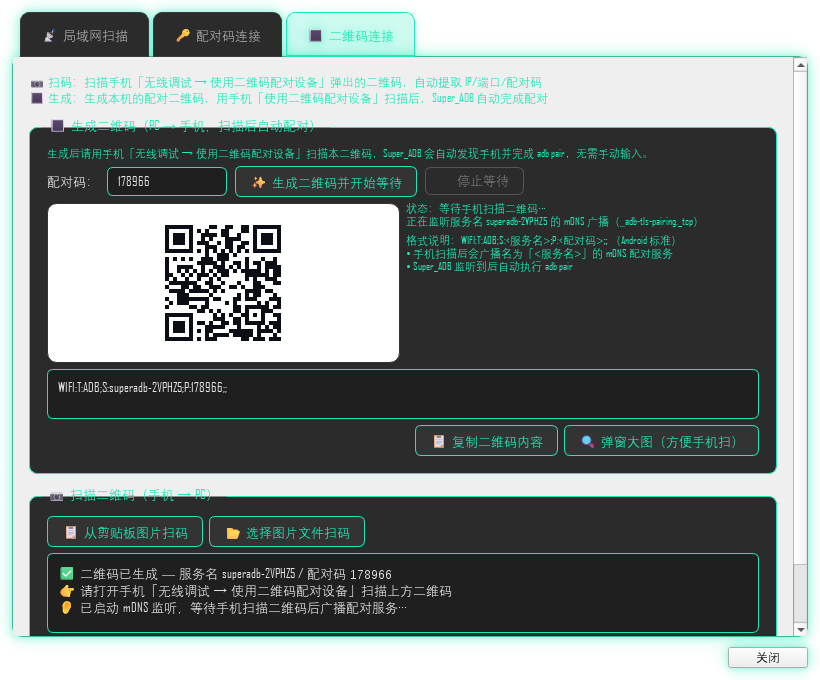
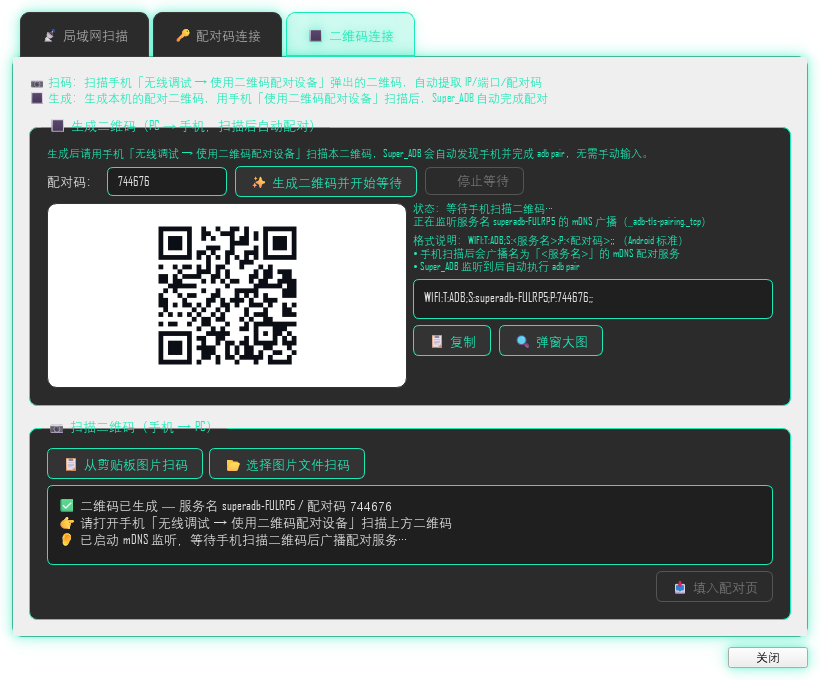
refactor(qr): payload 和按钮也挪到二维码右侧，进一步压缩生成区
- 把 payload 文本框、复制按钮、弹窗大图按钮从生成区底部移到二维码右侧信息列
- payload 文本框最大高度从 50 降到 40
- 按钮文字缩短为「复制」「弹窗大图」，用 tooltip 保留完整说明
- 同步更新 feature_intro 截图

Changed region(s): [[0.0305, 0.1853, 0.9756, 0.9574], [0.1524, 0.2471, 0.1829, 0.2779]]

diff --git a/Super_ADB_Main/dialogs/qr_connect_page.py b/Super_ADB_Main/dialogs/qr_connect_page.py
@@ -263,30 +263,34 @@ class QrConnectPage(QWidget):
         note.setWordWrap(True)
         note.setStyleSheet(f"color:{ACCENT}; font-size:11px;")
         info_col.addWidget(note)
+
+        # payload 原文 + 复制按钮，放到二维码右侧信息列里，继续省纵向空间
+        self.qr_payload_text = QTextEdit()
+        self.qr_payload_text.setReadOnly(True)
+        self.qr_payload_text.setMaximumHeight(40)
+        self.qr_payload_text.setPlaceholderText("生成的二维码原始文本…")
+        info_col.addWidget(self.qr_payload_text)
+
+        btn_row = QHBoxLayout()
+        btn_row.setSpacing(8)
+        self.btn_copy_payload = QPushButton("📋 复制")
+        self.btn_copy_payload.setToolTip("复制二维码原始文本到剪贴板")
+        self.btn_copy_payload.setEnabled(False)
+        self.btn_copy_payload.clicked.connect(self._copy_payload)
+        btn_row.addWidget(self.btn_copy_payload)
+
+        self.btn_popup_qr = QPushButton("🔍 弹窗大图")
+        self.btn_popup_qr.setToolTip("弹窗展示大尺寸二维码，方便手机相机扫描")
+        self.btn_popup_qr.setEnabled(False)
+        self.btn_popup_qr.clicked.connect(self._popup_qr)
+        btn_row.addWidget(self.btn_popup_qr)
+        btn_row.addStretch()
+        info_col.addLayout(btn_row)
+
         info_col.addStretch()
 
         qr_row.addLayout(info_col, 1)
         gv.addLayout(qr_row, 1)
-
-        # payload 原文 + 复制
-        self.qr_payload_text = QTextEdit()
-        self.qr_payload_text.setReadOnly(True)
-        self.qr_payload_text.setMaximumHeight(50)
-        self.qr_payload_text.setPlaceholderText("生成的二维码原始文本…")
-        gv.addWidget(self.qr_payload_text)
-
-        gcopy = QHBoxLayout()
-        gcopy.addStretch()
-        self.btn_copy_payload = QPushButton("📋 复制二维码内容")
-        self.btn_copy_payload.setEnabled(False)
-        self.btn_copy_payload.clicked.connect(self._copy_payload)
-        gcopy.addWidget(self.btn_copy_payload)
-
-        self.btn_popup_qr = QPushButton("🔍 弹窗大图（方便手机扫）")
-        self.btn_popup_qr.setEnabled(False)
-        self.btn_popup_qr.clicked.connect(self._popup_qr)
-        gcopy.addWidget(self.btn_popup_qr)
-        gv.addLayout(gcopy)
 
         root.addWidget(gen_g, 1)
 
